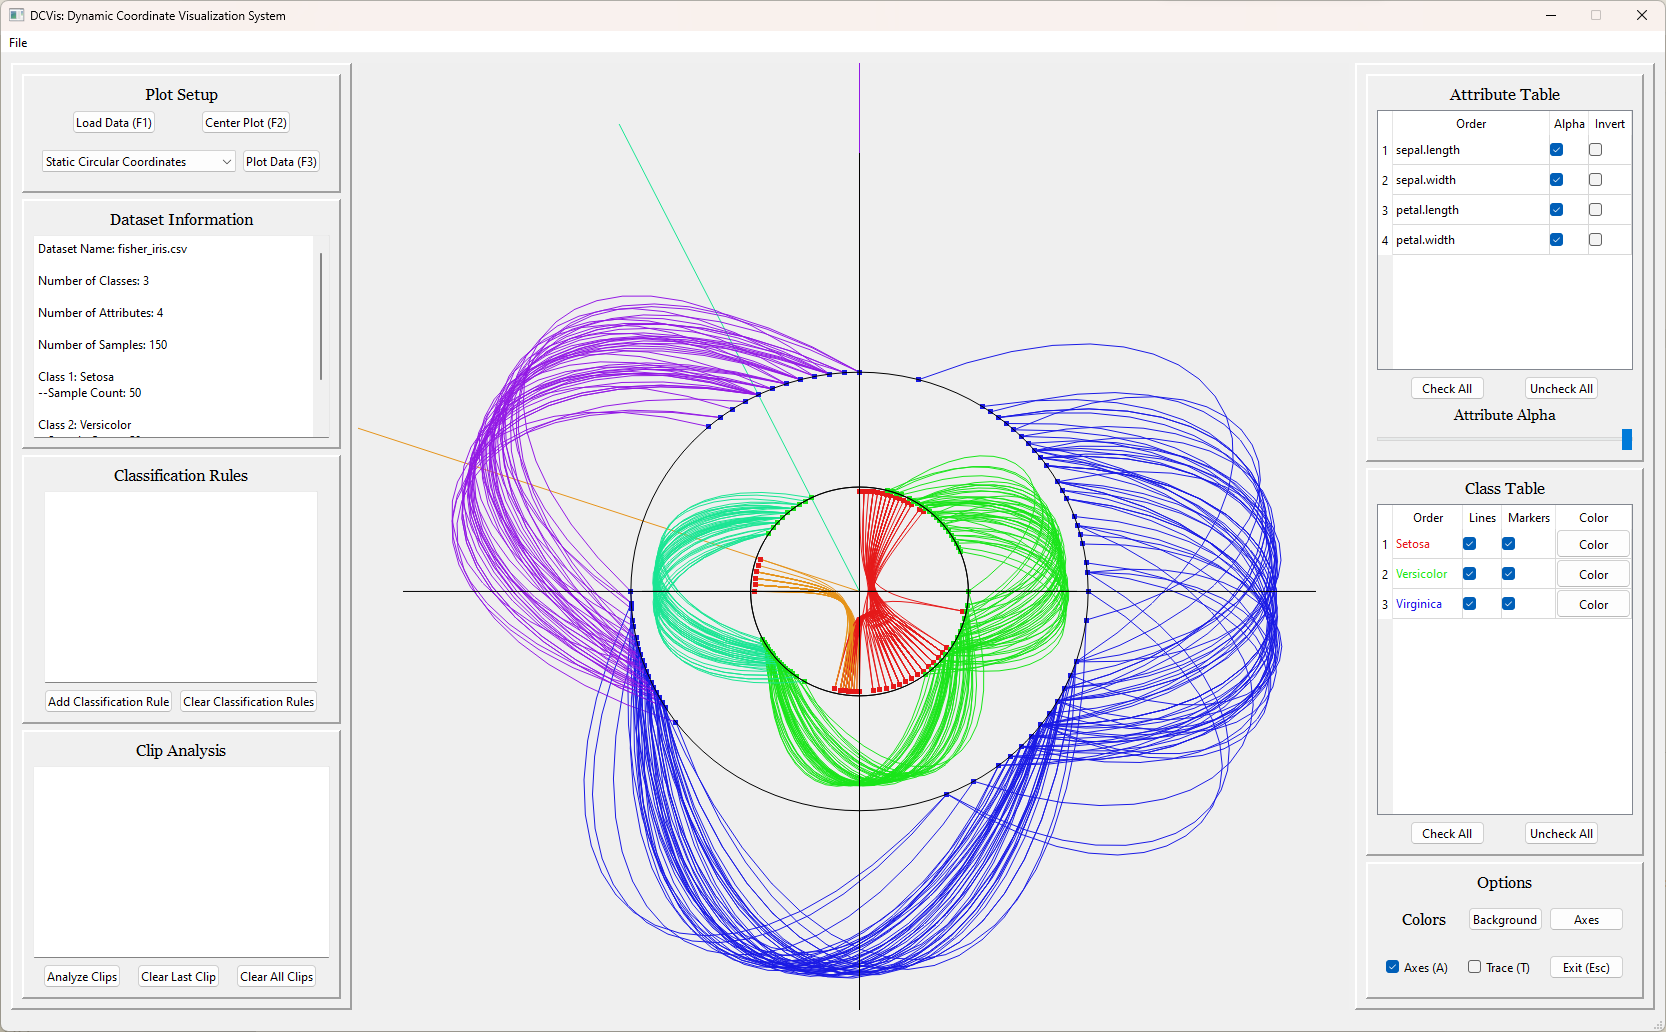
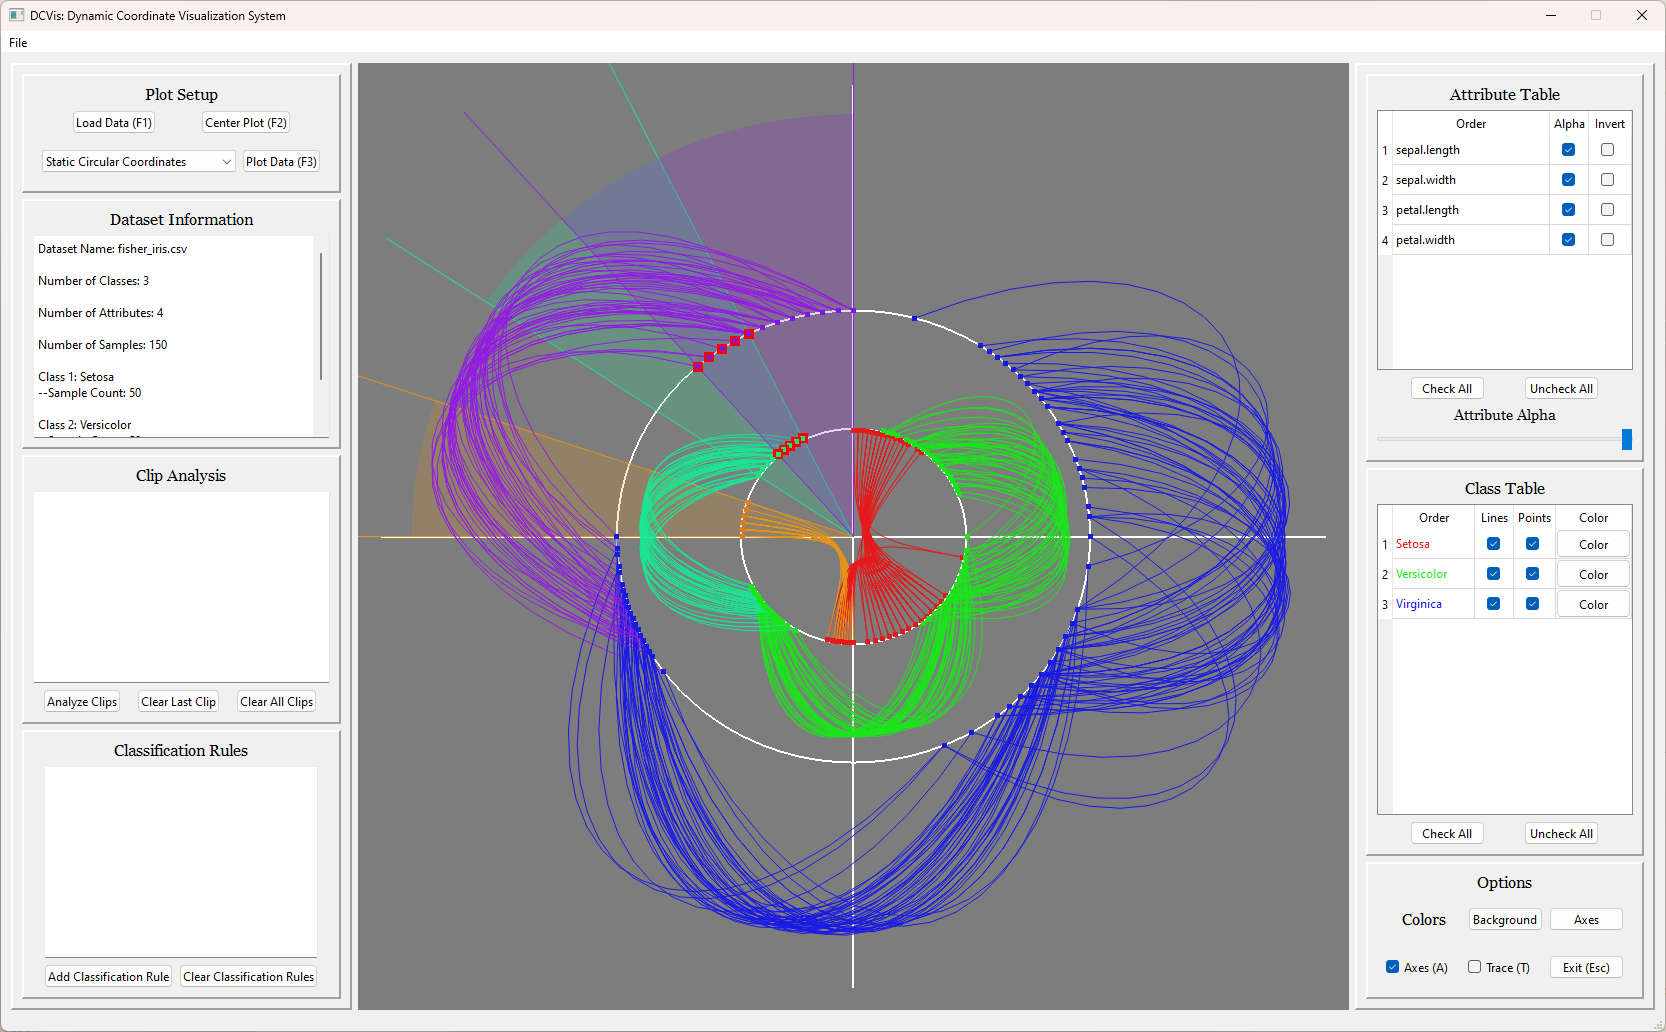
SCC highlight overlap pts

diff --git a/PLOT.py b/PLOT.py
@@ -88,36 +88,15 @@ def calculate_angle(x, y):
         angle += 2 * np.pi
     return angle
 
-def draw_unhighlighted_curves_vertices(data, marker_vao):
-    glEnable(GL_BLEND)
-    glBlendFunc(GL_SRC_ALPHA, GL_ONE_MINUS_SRC_ALPHA)
+def is_point_in_sector(point, center, start_angle, end_angle, radius):
+    # Calculate the angle and distance from the center to the point
+    angle = np.arctan2(point[1] - center[1], point[0] - center[0])
+    if angle < 0:
+        angle += 2 * np.pi
+    distance = np.sqrt((point[0] - center[0])**2 + (point[1] - center[1])**2)
 
-    for class_index in range(data.class_count):
-        is_inner = (class_index == data.class_order[0])
-
-        # Draw markers with adjusted positions and hue for inner classes
-        if data.active_markers[class_index]:
-            for j in range(data.vertex_count):
-                glBindVertexArray(marker_vao[class_index * data.vertex_count + j])
-                color = shift_hue(data.class_colors[class_index], 0)  # Adjust if needed for markers
-                
-                glColor4ub(color[0], color[1], color[2], data.attribute_alpha if data.active_attributes[j] else 255)
-                
-                if is_inner:
-                    # Adjust marker positions for inner classes, potentially using last attribute for hue shift
-                    for pos_index in range(0, len(data.positions[class_index]), data.vertex_count):
-                        position = data.positions[class_index][pos_index + j]
-                        adjusted_position = adjust_point_towards_center(position, data.attribute_count)
-                        glBegin(GL_POINTS)
-                        glVertex2f(*adjusted_position)
-                        glEnd()
-                else:
-                    glDrawArrays(GL_POINTS, 0, int(len(data.positions[class_index]) / data.vertex_count))
-                    
-                glBindVertexArray(0)
-                glPointSize(5)
-
-    glDisable(GL_BLEND)
+    # Check if the point's angle and distance place it within the sector
+    return distance <= radius and start_angle <= angle <= end_angle
 
 def draw_filled_sector(center, start_angle, end_angle, radius, segments=100):
     """
@@ -129,111 +108,6 @@ def draw_filled_sector(center, start_angle, end_angle, radius, segments=100):
         angle = start_angle + (end_angle - start_angle) * segment / segments
         glVertex2f(center[0] + np.cos(angle) * radius, center[1] + np.sin(angle) * radius)
     glEnd()
-
-def draw_unhighlighted_curves(data, line_vao):
-    glEnable(GL_BLEND)
-    glBlendFunc(GL_SRC_ALPHA, GL_ONE_MINUS_SRC_ALPHA)
-    radius = calculate_radius(data)
-    
-    hue_shift_amount = 0.02
-
-    for class_index in range(data.class_count):
-        min_angle = np.inf
-        max_angle = -np.inf
-        closest = furthest = None
-        
-        is_inner = (class_index == data.class_order[0])
-
-        if data.active_classes[class_index]:
-            glBindVertexArray(line_vao[class_index])
-
-            datapoint_count = 0
-            size_index = 0
-            for j in range(data.class_count):
-                if j < class_index:
-                    size_index += data.count_per_class[j]
-
-            for j in range(0, len(data.positions[class_index]), data.vertex_count):
-                sub_alpha = 0
-                for h in range(1, data.vertex_count):
-                    if h > data.attribute_count or data.clear_samples[size_index + datapoint_count]:
-                        continue
-
-                    # Apply hue shift, especially for the last attribute of each sample
-                    if data.trace_mode:
-                        color = shift_hue(data.class_colors[class_index], hue_shift_amount)
-                        hue_shift_amount += 0.02  # Increase hue shift for each attribute or sample
-                    elif h == data.attribute_count - 1:
-                        color = shift_hue(data.class_colors[class_index], 0.1)  # Apply a hue shift for the last attribute
-                    else:
-                        color = shift_hue(data.class_colors[class_index], 0)  # No hue shift if not the last attribute or not in trace mode
-                        
-                    glColor4ub(color[0], color[1], color[2], data.attribute_alpha - sub_alpha if data.active_attributes[h] else 255 - sub_alpha)
-
-                    def rotate_point_around_center(point, center, angle):
-                        ox, oy = center
-                        px, py = point
-
-                        qx = ox + np.cos(angle) * (px - ox) - np.sin(angle) * (py - oy)
-                        qy = oy + np.sin(angle) * (px - ox) + np.cos(angle) * (py - oy)
-                        return qx, qy
-
-                    if data.plot_type == 'DCC':
-                        start, end = data.positions[class_index][j + h - 1], data.positions[class_index][j + h]
-                        if h != 1:
-                            start = rotate_point_around_center(start, (0, 0), data.coefs[h - 1])
-                        end = rotate_point_around_center(end, (0, 0), data.coefs[h - 1])
-                    else:
-                        start, end = data.positions[class_index][j + h - 1], data.positions[class_index][j + h]
-                    
-                    control1, control2 = calculate_cubic_bezier_control_points(start, end, radius, data.attribute_count, is_inner, class_index)
-
-                    draw_cubic_bezier_curve(start, control1, control2, end, is_inner, data.attribute_count)
-                    
-                    angle = calculate_angle(end[0], end[1])
-                    
-                    if angle < min_angle and h == data.attribute_count - 1:
-                        min_angle = angle
-                        closest = end
-                    if angle > max_angle:
-                        max_angle = angle
-                        furthest = end
-                        
-                datapoint_count += 1
-
-            glBindVertexArray(0)
-
-            mult = 5
-            if class_index == data.class_count-1:
-                mult = 2.5
-            
-            if closest is not None:
-                extended_closest = (closest[0] * mult, closest[1] * mult)
-                draw_radial_line((0, 0), extended_closest)
-            if furthest is not None:
-                extended_endest = (furthest[0] * mult, furthest[1] * mult)
-                draw_radial_line((0, 0), extended_endest)
-            
-            if closest is not None and furthest is not None:
-                glColor4ub(color[0], color[1], color[2], 50)
-                closest_angle = np.arctan2(closest[1], closest[0])
-                furthest_angle = np.arctan2(furthest[1], furthest[0])
-
-                # Adjust angles to be positive
-                closest_angle = closest_angle if closest_angle >= 0 else closest_angle + 2 * np.pi
-                furthest_angle = furthest_angle if furthest_angle >= 0 else furthest_angle + 2 * np.pi
-
-                # Ensure start_angle < end_angle for drawing the sector correctly
-                if closest_angle > furthest_angle:
-                    closest_angle, furthest_angle = furthest_angle, closest_angle
-                
-                # Define the outer radius of the sector. Adjust according to your needs.
-                sector_radius = radius * (data.class_count + 1)
-
-                # Draw the filled sector
-                draw_filled_sector((0, 0), closest_angle, furthest_angle, sector_radius, segments=50)
-
-    glDisable(GL_BLEND)
 
 def draw_highlighted_curves(dataset, line_vao):
     glEnable(GL_BLEND)
@@ -347,7 +221,7 @@ def draw_unhighlighted_nd_point_vertices(dataset, marker_vao):
     glHint(GL_LINE_SMOOTH_HINT, GL_NICEST)
     glBlendFunc(GL_SRC_ALPHA, GL_ONE_MINUS_SRC_ALPHA)
     glLineWidth(1)
-
+    
     # Loop through classes in class order
     for i in dataset.class_order[::-1]:
         size_index = 0
@@ -491,6 +365,8 @@ class MakePlot(QOpenGLWidget):
         self.marker_vao = []
         self.axis_vao = None
 
+        self.sectors = []
+
         # for clipping
         self.all_rect = []  # holds all clip boxes
         self.rect = []  # working clip box
@@ -602,9 +478,9 @@ class MakePlot(QOpenGLWidget):
 
         # draw n-D points
         if self.data.plot_type in ['SCC', 'DCC']:  # Bezier curves
-            draw_unhighlighted_curves(self.data, self.line_vao)
+            self.draw_unhighlighted_curves(self.data, self.line_vao)
             draw_highlighted_curves(self.data, self.line_vao)
-            draw_unhighlighted_curves_vertices(self.data, self.marker_vao)
+            self.draw_unhighlighted_curves_vertices(self.data, self.marker_vao)
         else:  # Polylines
             draw_unhighlighted_nd_points(self.data, self.line_vao)
             draw_highlighted_nd_points(self.data, self.line_vao)
@@ -752,3 +628,160 @@ class MakePlot(QOpenGLWidget):
         self.is_panning = False
 
         event.accept()
+
+    def draw_unhighlighted_curves_vertices(self, data, marker_vao):
+        glEnable(GL_BLEND)
+        glBlendFunc(GL_SRC_ALPHA, GL_ONE_MINUS_SRC_ALPHA)
+        hue_shift = 0.08
+        
+        for class_index in range(data.class_count):
+
+            if data.active_markers[class_index]:
+                for j in range(data.vertex_count):
+                    glBindVertexArray(marker_vao[class_index * data.vertex_count + j])
+                    color = data.class_colors[class_index]
+                    # last marker hue shift
+                    if j == data.vertex_count - 1:
+                        color = shift_hue(color, hue_shift)
+
+                    is_inner = (class_index == data.class_order[0])
+                    was_inner = (class_index == data.class_order[1])
+                    for pos_index in range(0, len(data.positions[class_index]), data.vertex_count):
+                        position = data.positions[class_index][pos_index + j]
+                        
+                        if is_inner:
+                            position = adjust_point_towards_center(position, data.attribute_count)
+                        if was_inner:
+                            position = adjust_point_towards_center(position, -data.attribute_count)
+                            
+                        if sum(is_point_in_sector(position, (0, 0), sector['start_angle'], sector['end_angle'], sector['radius']) for sector in self.sectors) > 1:
+                            # Marker is in an overlapping sector, draw with a highlighted style
+                            glPointSize(10)  # Increased size for highlighting
+                            glColor4ub(255, 0, 0, 255)  # Red color for highlighting
+                            
+                        glBegin(GL_POINTS)
+                        glVertex2f(*position)
+                        glEnd()
+                        
+                        glPointSize(5)  # Normal size
+                        glColor4ub(color[0], color[1], color[2], data.attribute_alpha if data.active_attributes[j] else 255)  # Normal color
+                        
+                        glBegin(GL_POINTS)
+                        glVertex2f(*position)
+                        glEnd()
+
+                    glBindVertexArray(0)
+
+        glDisable(GL_BLEND)
+
+    def draw_unhighlighted_curves(self, data, line_vao):
+        glEnable(GL_BLEND)
+        glBlendFunc(GL_SRC_ALPHA, GL_ONE_MINUS_SRC_ALPHA)
+        radius = calculate_radius(data)
+        self.sectors = []
+        hue_shift_amount = 0.02
+
+        for class_index in range(data.class_count):
+            min_angle = np.inf
+            max_angle = -np.inf
+            closest = furthest = None
+            
+            is_inner = (class_index == data.class_order[0])
+
+            if data.active_classes[class_index]:
+                glBindVertexArray(line_vao[class_index])
+
+                datapoint_count = 0
+                size_index = 0
+                for j in range(data.class_count):
+                    if j < class_index:
+                        size_index += data.count_per_class[j]
+
+                for j in range(0, len(data.positions[class_index]), data.vertex_count):
+                    sub_alpha = 0
+                    for h in range(1, data.vertex_count):
+                        if h > data.attribute_count or data.clear_samples[size_index + datapoint_count]:
+                            continue
+
+                        # Apply hue shift, especially for the last attribute of each sample
+                        if data.trace_mode:
+                            color = shift_hue(data.class_colors[class_index], hue_shift_amount)
+                            hue_shift_amount += 0.02  # Increase hue shift for each attribute or sample
+                        elif h == data.attribute_count - 1:
+                            color = shift_hue(data.class_colors[class_index], 0.1)  # Apply a hue shift for the last attribute
+                        else:
+                            color = shift_hue(data.class_colors[class_index], 0)  # No hue shift if not the last attribute or not in trace mode
+                            
+                        glColor4ub(color[0], color[1], color[2], data.attribute_alpha - sub_alpha if data.active_attributes[h] else 255 - sub_alpha)
+
+                        def rotate_point_around_center(point, center, angle):
+                            ox, oy = center
+                            px, py = point
+
+                            qx = ox + np.cos(angle) * (px - ox) - np.sin(angle) * (py - oy)
+                            qy = oy + np.sin(angle) * (px - ox) + np.cos(angle) * (py - oy)
+                            return qx, qy
+
+                        if data.plot_type == 'DCC':
+                            start, end = data.positions[class_index][j + h - 1], data.positions[class_index][j + h]
+                            if h != 1:
+                                start = rotate_point_around_center(start, (0, 0), data.coefs[h - 1])
+                            end = rotate_point_around_center(end, (0, 0), data.coefs[h - 1])
+                        else:
+                            start, end = data.positions[class_index][j + h - 1], data.positions[class_index][j + h]
+                        
+                        control1, control2 = calculate_cubic_bezier_control_points(start, end, radius, data.attribute_count, is_inner, class_index)
+
+                        draw_cubic_bezier_curve(start, control1, control2, end, is_inner, data.attribute_count)
+                        
+                        angle = calculate_angle(end[0], end[1])
+                        
+                        if angle < min_angle and h == data.attribute_count - 1:
+                            min_angle = angle
+                            closest = end
+                        if angle > max_angle:
+                            max_angle = angle
+                            furthest = end
+                            
+                    datapoint_count += 1
+
+                glBindVertexArray(0)
+
+                mult = 5
+                if class_index == data.class_count-1:
+                    mult = 2.5
+                
+                if closest is not None:
+                    extended_closest = (closest[0] * mult, closest[1] * mult)
+                    draw_radial_line((0, 0), extended_closest)
+                if furthest is not None:
+                    extended_endest = (furthest[0] * mult, furthest[1] * mult)
+                    draw_radial_line((0, 0), extended_endest)
+                
+                if closest is not None and furthest is not None:
+                    glColor4ub(color[0], color[1], color[2], 50)
+                    closest_angle = np.arctan2(closest[1], closest[0])
+                    furthest_angle = np.arctan2(furthest[1], furthest[0])
+
+                    # Adjust angles to be positive
+                    closest_angle = closest_angle if closest_angle >= 0 else closest_angle + 2 * np.pi
+                    furthest_angle = furthest_angle if furthest_angle >= 0 else furthest_angle + 2 * np.pi
+
+                    # Ensure start_angle < end_angle for drawing the sector correctly
+                    if closest_angle > furthest_angle:
+                        closest_angle, furthest_angle = furthest_angle, closest_angle
+                    
+                    # Define the outer radius of the sector. Adjust according to your needs.
+                    sector_radius = radius * (data.class_count + 1)
+
+                    # Draw the filled sector
+                    draw_filled_sector((0, 0), closest_angle, furthest_angle, sector_radius, segments=50)
+
+                sector_info = {
+                    'start_angle': closest_angle,
+                    'end_angle': furthest_angle,
+                    'radius': sector_radius
+                }
+                self.sectors.append(sector_info)
+
+        glDisable(GL_BLEND)
